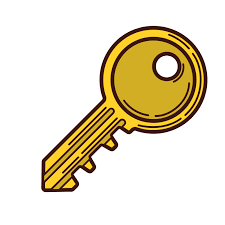
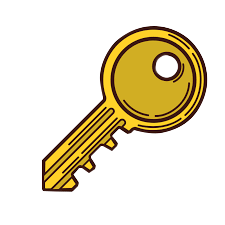
polished level one with new cropped images, added armour

diff --git a/src/App.css b/src/App.css
@@ -1,6 +1,6 @@
 .App {
   text-align: center;
-  background-image: url("./images/backgrounds/basement.png");
+  background-image: url("./images/backgrounds/basement_better.png");
   background-repeat: no-repeat;
   background-size: 100% 100%;
   position: relative;
@@ -10,24 +10,20 @@
   margin: 0 100px 0 100px;
 }
 
-.arrow-forward {
+#arrow-forward {
   height: 70px;
   position: absolute;
   bottom: 130px;
   left: 455px;
 }
 
-.arrow-forward:hover {
-  opacity: 0.9;
-  box-shadow: 0 0 5px rgb(249, 249, 78);
-}
 
-.door {
+
+#door {
   position: absolute;
-  bottom: 90px;
+  bottom: 80px;
   left: 380px;
   height: 250px;
-  
 }
 
 .stopwatch {
@@ -59,17 +55,10 @@
 
 }
 
-.padlock {
+#padlock {
   position: absolute;
   bottom: 30px;
   height: 60px;
-  
-  
-}
-
-.padlock:hover {
-  opacity: 0.9;
-  box-shadow: 0 0 5px rgb(249, 249, 78);
 }
 
 .padlock-form {
@@ -78,20 +67,30 @@
   left: 30px;
 }
 
-.book {
+#book {
   position: absolute;
   bottom: 20px;
   left: 670px;
-  height: 200px;
-  
+  height: 200px;  
 }
 
-.key {
+.item:hover {
+  box-shadow: 0 0 5px rgb(249, 249, 78);
+}
+
+
+#key {
   position: absolute;
   bottom: 20px;
   left: 170px;
   height: 200px;
-  
+}
+
+#armour {
+  position: absolute;
+  bottom: 140px;
+  left: 270px;
+  height: 150px;
 }
 
 input[type="text"] {

diff --git a/src/components/levels/LevelOne.js b/src/components/levels/LevelOne.js
@@ -7,6 +7,7 @@ import { useState } from 'react'
 
 
 import '../../App.css';
+import Armour from '../level-items/Armour'
 
 export const LevelOne = ({ setPlayerLocation, logs, setLogs }) => {
 
@@ -17,8 +18,12 @@ export const LevelOne = ({ setPlayerLocation, logs, setLogs }) => {
   const [hasKeyOne, setHasKeyOne] = useState(false)
 
   const bookClicked = () => {
-    setLogs([...logs, <p>you found a book on the floor, there seems to be scribbles on it, maybe try reading it from your pouch</p>])
+    setLogs([...logs, <p>You found a book on the floor, there seems to be scribbles on it, maybe try reading it from your pouch</p>])
+    
+  }
 
+  const armourClicked = () => {
+    setLogs([...logs, <p>Looks like this angry fella won't let you pass</p>])
     
   }
 
@@ -44,6 +49,7 @@ export const LevelOne = ({ setPlayerLocation, logs, setLogs }) => {
         logs={logs}
         setLogs={setLogs}
       />
+      <Armour armourClick={() => armourClicked()}/>
         <Book bookClick={() => bookClicked()} />
         {!isPadlockSolved && <Padlock padClick={() => padlockClicked()}/>}
       {isPadlockClicked && <PadlockForm

diff --git a/src/components/level-items/Door.js b/src/components/level-items/Door.js
@@ -22,6 +22,6 @@ export const Door = ({ setDoorOneOpen, hasKeyOne, doorOneOpen, setPlayerLocation
   }
 
   return doorOneOpen ? (
-    <img src={arrowForward} className='arrow-forward' onClick={levelComplete} />)
-    : (<img src={doorOneClosedImg} onClick={openDoor} className='door' />)
+    <img src={arrowForward} className="item" id='arrow-forward' onClick={levelComplete} />)
+    : (<img src={doorOneClosedImg} onClick={openDoor} id='door' className="item" />)
 }

diff --git a/src/components/level-items/Padlock.js b/src/components/level-items/Padlock.js
@@ -1,13 +1,14 @@
 import padlock from "../../images/items/padlock_with_code2.png"
-import { PadlockForm } from "./PadlockForm"
 
 export const Padlock = ({padClick }) => {
   return (
     <div className='padlock-div'>
       
-      <img src={padlock} className="padlock" onClick={padClick} />
-      
-      
+      <img src={padlock}
+        id="padlock"
+        className="item"
+        onClick={padClick}
+      />
       
     </div>
   )

diff --git a/src/components/level-items/Book.js b/src/components/level-items/Book.js
@@ -1,9 +1,9 @@
-import book from "../../images/items/book.jpg"
+import book from "../../images/items/book.png"
 
 export const Book = ({ bookClick }) => {
   return (
     <div>
-      <img className='book' src={book} onClick={bookClick} style={{ height: '60px'}}/>
+      <img className='item' id="book" src={book} onClick={bookClick} style={{ height: '60px'}}/>
     </div>
   )
 }

diff --git a/src/components/level-items/Key.js b/src/components/level-items/Key.js
@@ -6,6 +6,6 @@ export const Key = ( { setHasKeyOne, logs, setLogs }) => {
     setLogs([...logs, <p>You picked up the key, want to bet it opens that lovely door?</p>])
   }
   return (
-    <img className='key' onClick={grabKey} src={key} style={{ height: '60px'}}/>
+    <img className='item' id="key" onClick={grabKey} src={key} style={{ height: '60px'}}/>
   )
 }

diff --git a/src/components/level-items/Armour.js b/src/components/level-items/Armour.js
@@ -1,0 +1,16 @@
+import armour from "../../images/items/armour.png"
+
+
+const Armour = ({armourClick}) => {
+  return (
+    <div>
+      <img src={armour}
+        id="armour"
+        className="item"
+        onClick={armourClick}
+      />
+    </div>
+  )
+}
+
+export default Armour
